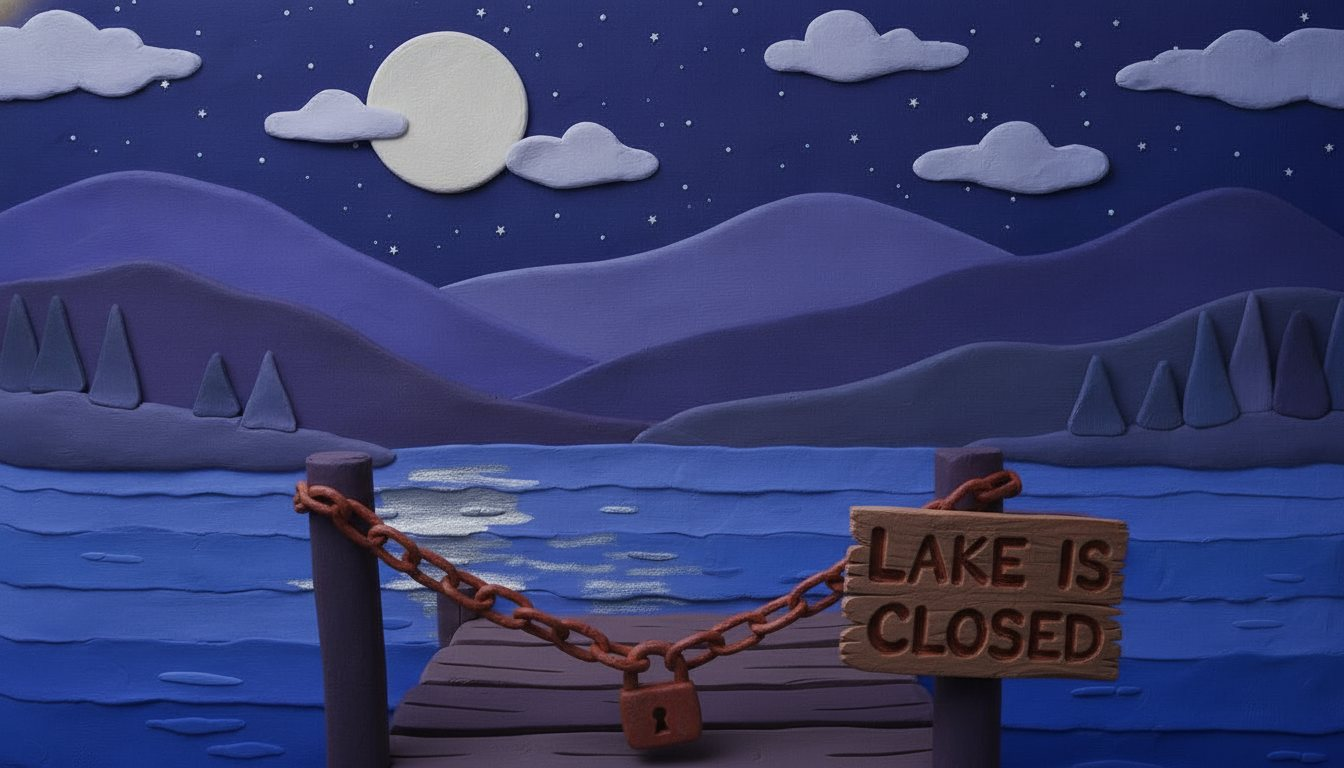
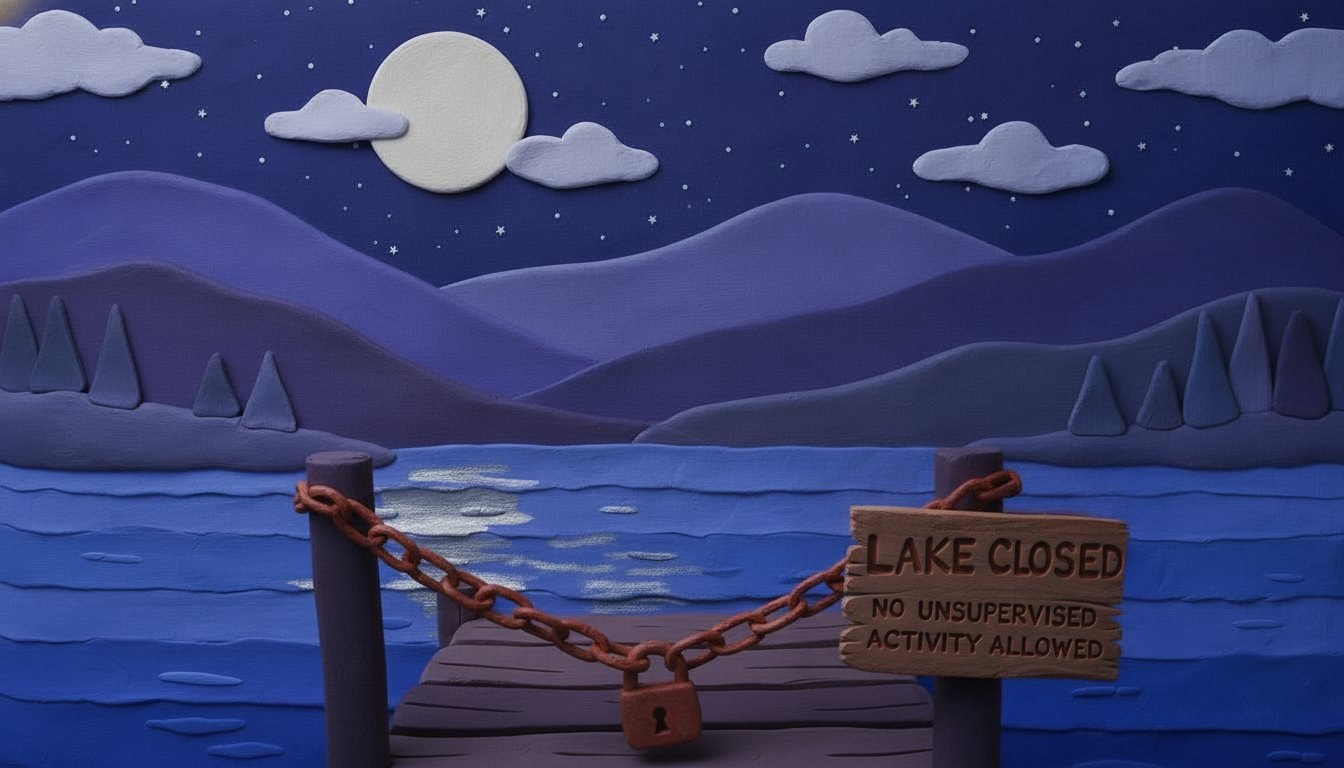
Dock: press up to the gap for a close view of the lake; new sign LAKE CLOSED / no unsupervised activity; channel 8 is a bug-zapper lantern infomercial
Claude-Session: https://claude.ai/code/session_017UCt1yh6wM11RSMuh2VTku

Changed region(s): [[0.625, 0.6875, 0.8438, 0.875]]

diff --git a/docs/index.html b/docs/index.html
@@ -67,6 +67,11 @@ button{font:inherit;color:inherit}
 #s-dock:not(.peeking) .peekbg{animation:peekdrift 16s ease-in-out infinite alternate}
 @keyframes peekdrift{0%{transform:scale(1.3) translate(5%,-12%)}35%{transform:scale(1.3) translate(-2%,-16%)}70%{transform:scale(1.3) translate(-10%,-13%)}100%{transform:scale(1.3) translate(-5%,-15%)}}
 .boards{position:absolute;inset:0;width:100%;height:100%;object-fit:cover;z-index:4;pointer-events:none;filter:brightness(.85)}
+.boards{transition:transform .9s cubic-bezier(.5,0,.2,1),filter .9s;transform-origin:51% 43%}
+#s-dock.close .boards{transform:scale(5.2);filter:brightness(.55) blur(1.5px)}
+#s-dock.close .peekbg{animation:none!important;transform:scale(1.04)!important;transition:transform .9s cubic-bezier(.5,0,.2,1)}
+#s-dock.close #signHot{left:73%!important;top:63%!important}
+#s-dock.close #peekBtn{top:88%!important}
 .hot{position:absolute;z-index:5;transform:translate(-50%,-50%);appearance:none;border:0;background:none;cursor:pointer;padding:0;display:grid;justify-items:center;gap:8px}
 .hot .ring{width:46px;height:46px;border-radius:50%;border:2px solid var(--glow,var(--candle));box-shadow:0 0 18px var(--glow,var(--candle)),inset 0 0 12px var(--glow,var(--candle));
   animation:pulse 2.2s ease-in-out infinite;position:relative}
@@ -319,13 +324,14 @@ button{font:inherit;color:inherit}
 
     <section class="scene" id="s-dock" data-crumb="The dock" data-back="inside">
       <div class="peekbg" id="peekbg">
-        <img class="bg" id="dockImg" src="img/dock-night.jpg" alt="Peeking through the boarded, hacked-up back door at the layered clay lake view from the dock: stacked mountains, puffy clay clouds, the dock chained shut with a padlock and a clay sign reading LAKE IS CLOSED" width="1344" height="768">
+        <img class="bg" id="dockImg" src="img/dock-night.jpg?v=6" alt="Peeking through the boarded, hacked-up back door at the layered clay lake view from the dock: stacked mountains, puffy clay clouds, the dock chained shut with a padlock and a clay sign reading LAKE CLOSED, NO UNSUPERVISED ACTIVITY ALLOWED" width="1344" height="768">
         <button class="secret" id="padlock" style="left:44%;top:82%;width:11%;height:16%;cursor:pointer" aria-label="The padlock"></button>
         <div class="fog"></div>
       </div>
       <img class="boards" src="img/boards.webp?v=6" alt="" aria-hidden="true">
       <div class="clock" id="dockClock" aria-live="polite"></div>
-      <button class="hot" style="left:74%;top:60%;--glow:#9fc6ff" data-card="dock" aria-label="Read the sign"><span class="ring"></span><span class="tag" id="dockTag">Read the sign</span></button>
+      <button class="hot" id="peekBtn" style="left:51%;top:44%;--glow:#e9c46a" aria-label="Press up to the gap in the boards"><span class="ring"></span><span class="tag" id="peekTag">Press up to the gap</span></button>
+      <button class="hot" id="signHot" style="left:74%;top:60%;--glow:#9fc6ff" data-card="dock" aria-label="Read the sign"><span class="ring"></span><span class="tag" id="dockTag">Read the sign</span></button>
     </section>
 
   </div>
@@ -540,10 +546,11 @@ button{font:inherit;color:inherit}
     $('qstart').addEventListener('click',function(){ streak=0; used={}; active=true; $('qintro').hidden=true; $('qplay').hidden=false; next() });
     paint();
   })();
+  $('peekBtn').addEventListener('click',function(e){ e.stopPropagation(); var sc=$('s-dock'), c=!sc.classList.contains('close'); sc.classList.toggle('close',c); $('peekTag').textContent=c?'Step back':'Press up to the gap'; $('peekBtn').setAttribute('aria-label',c?'Step back from the boards':'Press up to the gap in the boards'); });
   // ---- Peek through the boarded back door: the lake shifts behind the gaps as you move ----
   (function(){ var sc=$('s-dock'), pb=$('peekbg');
     sc.addEventListener('pointermove',function(e){ if(e.pointerType!=='mouse') return; var r=sc.getBoundingClientRect(), nx=(e.clientX-r.left)/r.width-.5, ny=(e.clientY-r.top)/r.height-.5;
-      sc.classList.add('peeking'); pb.style.transform='scale(1.3) translate('+(-4-nx*20).toFixed(2)+'%,'+(-14-ny*8).toFixed(2)+'%)' });
+      sc.classList.add('peeking'); if(sc.classList.contains('close')) return; pb.style.transform='scale(1.3) translate('+(-4-nx*20).toFixed(2)+'%,'+(-14-ny*8).toFixed(2)+'%)' });
     sc.addEventListener('pointerleave',function(){ sc.classList.remove('peeking'); pb.style.transform='' });
   })();
   function LAKE_OPEN_EARLY(){ return new Date()>=new Date(2027,0,2) }
@@ -628,6 +635,7 @@ button{font:inherit;color:inherit}
   function closeCard(){ if(openCard){openCard.classList.add('off');openCard=null} }
   function center(){ vp.scrollLeft=(vp.scrollWidth-vp.clientWidth)/2; $('hint').hidden=vp.scrollWidth<=vp.clientWidth+4 }
   function show(name, from){
+    if(name!=='dock'){ $('s-dock').classList.remove('close'); $('peekTag').textContent='Press up to the gap' }
     if(name==='altar') name='tv';
     if(SCENES.indexOf(name)<0) name='exterior';
     closeCard();
@@ -747,7 +755,7 @@ button{font:inherit;color:inherit}
       5:['ch/5.jpg','<b>Knee-Crusher 90</b> &middot; tone those thighs &middot; results guaranteed or your knees back'],
       6:['ch/6.jpg','<b>Roast-O-Rama 3000</b> &middot; don&rsquo;t ask what&rsquo;s on the spit &middot; call now'],
       7:['ch/7.jpg','<b>Madame Morte&rsquo;s Psychic Line</b> &middot; she already knows you&rsquo;ll call &middot; $3.99/min'],
-      8:['ch/8.jpg','<b>Gone-by-Morning</b> stain lifter &middot; wine, grass and&hellip; other stains'],
+      8:['ch/8.jpg','<b>Zap-a-Lantern</b> &middot; keeps the bugs away at the lake &middot; and whatever else is out there'],
       10:['ch/10.jpg','<b>Instant Mane</b> &middot; hair in a can &middot; mostly hair &middot; 1-800-555-0113'],
       11:['ch/11.jpg','<b>Lakeside Collector Plates</b> &middot; plate 1 of 13: the cabin &middot; limited edition']
     };
@@ -762,7 +770,7 @@ button{font:inherit;color:inherit}
       show(cv,true); noise();
       flash=setTimeout(function(){
         var c=CH[ch];
-        if(c){ $('chImg').src='img/'+c[0]+'?v=6'; show($('chImg'),true); $('chLower').innerHTML=c[1]; show($('chLower'),true) }
+        if(c){ $('chImg').src='img/'+c[0]+'?v=7'; show($('chImg'),true); $('chLower').innerHTML=c[1]; show($('chLower'),true) }
         else if(ch===3) show($('blue'),true);
         else if(ch===12) show($('bars'),true);
         else if(ch===13) show($('ch13'),true);
@@ -848,7 +856,7 @@ button{font:inherit;color:inherit}
     else if(now>=t.set-60 && now<t.set+30) ph='dusk';
     else ph='night';
     DOCK_PH=ph; if(cur==='dock') K.dock(ph);
-    var img=$('dockImg'), src='img/dock-'+ph+(LAKE_OPEN?'-open':'')+'.jpg';
+    var img=$('dockImg'), src='img/dock-'+ph+(LAKE_OPEN?'-open':'')+'.jpg?v=6';
     if(img.getAttribute('src')!==src) img.setAttribute('src',src);
     var after=now>=t.set, before=now<t.rise;
     $('dockClock').innerHTML=fmt(now)+'<small>'+(before?'Sunrise at '+fmt(t.rise):after?'Sun set at '+fmt(t.set):'Sunset at '+fmt(t.set))+'</small>';

diff --git a/site/world/index.html b/site/world/index.html
@@ -67,6 +67,11 @@ button{font:inherit;color:inherit}
 #s-dock:not(.peeking) .peekbg{animation:peekdrift 16s ease-in-out infinite alternate}
 @keyframes peekdrift{0%{transform:scale(1.3) translate(5%,-12%)}35%{transform:scale(1.3) translate(-2%,-16%)}70%{transform:scale(1.3) translate(-10%,-13%)}100%{transform:scale(1.3) translate(-5%,-15%)}}
 .boards{position:absolute;inset:0;width:100%;height:100%;object-fit:cover;z-index:4;pointer-events:none;filter:brightness(.85)}
+.boards{transition:transform .9s cubic-bezier(.5,0,.2,1),filter .9s;transform-origin:51% 43%}
+#s-dock.close .boards{transform:scale(5.2);filter:brightness(.55) blur(1.5px)}
+#s-dock.close .peekbg{animation:none!important;transform:scale(1.04)!important;transition:transform .9s cubic-bezier(.5,0,.2,1)}
+#s-dock.close #signHot{left:73%!important;top:63%!important}
+#s-dock.close #peekBtn{top:88%!important}
 .hot{position:absolute;z-index:5;transform:translate(-50%,-50%);appearance:none;border:0;background:none;cursor:pointer;padding:0;display:grid;justify-items:center;gap:8px}
 .hot .ring{width:46px;height:46px;border-radius:50%;border:2px solid var(--glow,var(--candle));box-shadow:0 0 18px var(--glow,var(--candle)),inset 0 0 12px var(--glow,var(--candle));
   animation:pulse 2.2s ease-in-out infinite;position:relative}
@@ -319,13 +324,14 @@ button{font:inherit;color:inherit}
 
     <section class="scene" id="s-dock" data-crumb="The dock" data-back="inside">
       <div class="peekbg" id="peekbg">
-        <img class="bg" id="dockImg" src="img/dock-night.jpg" alt="Peeking through the boarded, hacked-up back door at the layered clay lake view from the dock: stacked mountains, puffy clay clouds, the dock chained shut with a padlock and a clay sign reading LAKE IS CLOSED" width="1344" height="768">
+        <img class="bg" id="dockImg" src="img/dock-night.jpg?v=6" alt="Peeking through the boarded, hacked-up back door at the layered clay lake view from the dock: stacked mountains, puffy clay clouds, the dock chained shut with a padlock and a clay sign reading LAKE CLOSED, NO UNSUPERVISED ACTIVITY ALLOWED" width="1344" height="768">
         <button class="secret" id="padlock" style="left:44%;top:82%;width:11%;height:16%;cursor:pointer" aria-label="The padlock"></button>
         <div class="fog"></div>
       </div>
       <img class="boards" src="img/boards.webp?v=6" alt="" aria-hidden="true">
       <div class="clock" id="dockClock" aria-live="polite"></div>
-      <button class="hot" style="left:74%;top:60%;--glow:#9fc6ff" data-card="dock" aria-label="Read the sign"><span class="ring"></span><span class="tag" id="dockTag">Read the sign</span></button>
+      <button class="hot" id="peekBtn" style="left:51%;top:44%;--glow:#e9c46a" aria-label="Press up to the gap in the boards"><span class="ring"></span><span class="tag" id="peekTag">Press up to the gap</span></button>
+      <button class="hot" id="signHot" style="left:74%;top:60%;--glow:#9fc6ff" data-card="dock" aria-label="Read the sign"><span class="ring"></span><span class="tag" id="dockTag">Read the sign</span></button>
     </section>
 
   </div>
@@ -540,10 +546,11 @@ button{font:inherit;color:inherit}
     $('qstart').addEventListener('click',function(){ streak=0; used={}; active=true; $('qintro').hidden=true; $('qplay').hidden=false; next() });
     paint();
   })();
+  $('peekBtn').addEventListener('click',function(e){ e.stopPropagation(); var sc=$('s-dock'), c=!sc.classList.contains('close'); sc.classList.toggle('close',c); $('peekTag').textContent=c?'Step back':'Press up to the gap'; $('peekBtn').setAttribute('aria-label',c?'Step back from the boards':'Press up to the gap in the boards'); });
   // ---- Peek through the boarded back door: the lake shifts behind the gaps as you move ----
   (function(){ var sc=$('s-dock'), pb=$('peekbg');
     sc.addEventListener('pointermove',function(e){ if(e.pointerType!=='mouse') return; var r=sc.getBoundingClientRect(), nx=(e.clientX-r.left)/r.width-.5, ny=(e.clientY-r.top)/r.height-.5;
-      sc.classList.add('peeking'); pb.style.transform='scale(1.3) translate('+(-4-nx*20).toFixed(2)+'%,'+(-14-ny*8).toFixed(2)+'%)' });
+      sc.classList.add('peeking'); if(sc.classList.contains('close')) return; pb.style.transform='scale(1.3) translate('+(-4-nx*20).toFixed(2)+'%,'+(-14-ny*8).toFixed(2)+'%)' });
     sc.addEventListener('pointerleave',function(){ sc.classList.remove('peeking'); pb.style.transform='' });
   })();
   function LAKE_OPEN_EARLY(){ return new Date()>=new Date(2027,0,2) }
@@ -628,6 +635,7 @@ button{font:inherit;color:inherit}
   function closeCard(){ if(openCard){openCard.classList.add('off');openCard=null} }
   function center(){ vp.scrollLeft=(vp.scrollWidth-vp.clientWidth)/2; $('hint').hidden=vp.scrollWidth<=vp.clientWidth+4 }
   function show(name, from){
+    if(name!=='dock'){ $('s-dock').classList.remove('close'); $('peekTag').textContent='Press up to the gap' }
     if(name==='altar') name='tv';
     if(SCENES.indexOf(name)<0) name='exterior';
     closeCard();
@@ -747,7 +755,7 @@ button{font:inherit;color:inherit}
       5:['ch/5.jpg','<b>Knee-Crusher 90</b> &middot; tone those thighs &middot; results guaranteed or your knees back'],
       6:['ch/6.jpg','<b>Roast-O-Rama 3000</b> &middot; don&rsquo;t ask what&rsquo;s on the spit &middot; call now'],
       7:['ch/7.jpg','<b>Madame Morte&rsquo;s Psychic Line</b> &middot; she already knows you&rsquo;ll call &middot; $3.99/min'],
-      8:['ch/8.jpg','<b>Gone-by-Morning</b> stain lifter &middot; wine, grass and&hellip; other stains'],
+      8:['ch/8.jpg','<b>Zap-a-Lantern</b> &middot; keeps the bugs away at the lake &middot; and whatever else is out there'],
       10:['ch/10.jpg','<b>Instant Mane</b> &middot; hair in a can &middot; mostly hair &middot; 1-800-555-0113'],
       11:['ch/11.jpg','<b>Lakeside Collector Plates</b> &middot; plate 1 of 13: the cabin &middot; limited edition']
     };
@@ -762,7 +770,7 @@ button{font:inherit;color:inherit}
       show(cv,true); noise();
       flash=setTimeout(function(){
         var c=CH[ch];
-        if(c){ $('chImg').src='img/'+c[0]+'?v=6'; show($('chImg'),true); $('chLower').innerHTML=c[1]; show($('chLower'),true) }
+        if(c){ $('chImg').src='img/'+c[0]+'?v=7'; show($('chImg'),true); $('chLower').innerHTML=c[1]; show($('chLower'),true) }
         else if(ch===3) show($('blue'),true);
         else if(ch===12) show($('bars'),true);
         else if(ch===13) show($('ch13'),true);
@@ -848,7 +856,7 @@ button{font:inherit;color:inherit}
     else if(now>=t.set-60 && now<t.set+30) ph='dusk';
     else ph='night';
     DOCK_PH=ph; if(cur==='dock') K.dock(ph);
-    var img=$('dockImg'), src='img/dock-'+ph+(LAKE_OPEN?'-open':'')+'.jpg';
+    var img=$('dockImg'), src='img/dock-'+ph+(LAKE_OPEN?'-open':'')+'.jpg?v=6';
     if(img.getAttribute('src')!==src) img.setAttribute('src',src);
     var after=now>=t.set, before=now<t.rise;
     $('dockClock').innerHTML=fmt(now)+'<small>'+(before?'Sunrise at '+fmt(t.rise):after?'Sun set at '+fmt(t.set):'Sunset at '+fmt(t.set))+'</small>';

diff --git a/site/world/page.html b/site/world/page.html
@@ -62,6 +62,11 @@ button{font:inherit;color:inherit}
 #s-dock:not(.peeking) .peekbg{animation:peekdrift 16s ease-in-out infinite alternate}
 @keyframes peekdrift{0%{transform:scale(1.3) translate(5%,-12%)}35%{transform:scale(1.3) translate(-2%,-16%)}70%{transform:scale(1.3) translate(-10%,-13%)}100%{transform:scale(1.3) translate(-5%,-15%)}}
 .boards{position:absolute;inset:0;width:100%;height:100%;object-fit:cover;z-index:4;pointer-events:none;filter:brightness(.85)}
+.boards{transition:transform .9s cubic-bezier(.5,0,.2,1),filter .9s;transform-origin:51% 43%}
+#s-dock.close .boards{transform:scale(5.2);filter:brightness(.55) blur(1.5px)}
+#s-dock.close .peekbg{animation:none!important;transform:scale(1.04)!important;transition:transform .9s cubic-bezier(.5,0,.2,1)}
+#s-dock.close #signHot{left:73%!important;top:63%!important}
+#s-dock.close #peekBtn{top:88%!important}
 .hot{position:absolute;z-index:5;transform:translate(-50%,-50%);appearance:none;border:0;background:none;cursor:pointer;padding:0;display:grid;justify-items:center;gap:8px}
 .hot .ring{width:46px;height:46px;border-radius:50%;border:2px solid var(--glow,var(--candle));box-shadow:0 0 18px var(--glow,var(--candle)),inset 0 0 12px var(--glow,var(--candle));
   animation:pulse 2.2s ease-in-out infinite;position:relative}
@@ -314,13 +319,14 @@ button{font:inherit;color:inherit}
 
     <section class="scene" id="s-dock" data-crumb="The dock" data-back="inside">
       <div class="peekbg" id="peekbg">
-        <img class="bg" id="dockImg" src="img/dock-night.jpg" alt="Peeking through the boarded, hacked-up back door at the layered clay lake view from the dock: stacked mountains, puffy clay clouds, the dock chained shut with a padlock and a clay sign reading LAKE IS CLOSED" width="1344" height="768">
+        <img class="bg" id="dockImg" src="img/dock-night.jpg?v=6" alt="Peeking through the boarded, hacked-up back door at the layered clay lake view from the dock: stacked mountains, puffy clay clouds, the dock chained shut with a padlock and a clay sign reading LAKE CLOSED, NO UNSUPERVISED ACTIVITY ALLOWED" width="1344" height="768">
         <button class="secret" id="padlock" style="left:44%;top:82%;width:11%;height:16%;cursor:pointer" aria-label="The padlock"></button>
         <div class="fog"></div>
       </div>
       <img class="boards" src="img/boards.webp?v=6" alt="" aria-hidden="true">
       <div class="clock" id="dockClock" aria-live="polite"></div>
-      <button class="hot" style="left:74%;top:60%;--glow:#9fc6ff" data-card="dock" aria-label="Read the sign"><span class="ring"></span><span class="tag" id="dockTag">Read the sign</span></button>
+      <button class="hot" id="peekBtn" style="left:51%;top:44%;--glow:#e9c46a" aria-label="Press up to the gap in the boards"><span class="ring"></span><span class="tag" id="peekTag">Press up to the gap</span></button>
+      <button class="hot" id="signHot" style="left:74%;top:60%;--glow:#9fc6ff" data-card="dock" aria-label="Read the sign"><span class="ring"></span><span class="tag" id="dockTag">Read the sign</span></button>
     </section>
 
   </div>
@@ -535,10 +541,11 @@ button{font:inherit;color:inherit}
     $('qstart').addEventListener('click',function(){ streak=0; used={}; active=true; $('qintro').hidden=true; $('qplay').hidden=false; next() });
     paint();
   })();
+  $('peekBtn').addEventListener('click',function(e){ e.stopPropagation(); var sc=$('s-dock'), c=!sc.classList.contains('close'); sc.classList.toggle('close',c); $('peekTag').textContent=c?'Step back':'Press up to the gap'; $('peekBtn').setAttribute('aria-label',c?'Step back from the boards':'Press up to the gap in the boards'); });
   // ---- Peek through the boarded back door: the lake shifts behind the gaps as you move ----
   (function(){ var sc=$('s-dock'), pb=$('peekbg');
     sc.addEventListener('pointermove',function(e){ if(e.pointerType!=='mouse') return; var r=sc.getBoundingClientRect(), nx=(e.clientX-r.left)/r.width-.5, ny=(e.clientY-r.top)/r.height-.5;
-      sc.classList.add('peeking'); pb.style.transform='scale(1.3) translate('+(-4-nx*20).toFixed(2)+'%,'+(-14-ny*8).toFixed(2)+'%)' });
+      sc.classList.add('peeking'); if(sc.classList.contains('close')) return; pb.style.transform='scale(1.3) translate('+(-4-nx*20).toFixed(2)+'%,'+(-14-ny*8).toFixed(2)+'%)' });
     sc.addEventListener('pointerleave',function(){ sc.classList.remove('peeking'); pb.style.transform='' });
   })();
   function LAKE_OPEN_EARLY(){ return new Date()>=new Date(2027,0,2) }
@@ -623,6 +630,7 @@ button{font:inherit;color:inherit}
   function closeCard(){ if(openCard){openCard.classList.add('off');openCard=null} }
   function center(){ vp.scrollLeft=(vp.scrollWidth-vp.clientWidth)/2; $('hint').hidden=vp.scrollWidth<=vp.clientWidth+4 }
   function show(name, from){
+    if(name!=='dock'){ $('s-dock').classList.remove('close'); $('peekTag').textContent='Press up to the gap' }
     if(name==='altar') name='tv';
     if(SCENES.indexOf(name)<0) name='exterior';
     closeCard();
@@ -742,7 +750,7 @@ button{font:inherit;color:inherit}
       5:['ch/5.jpg','<b>Knee-Crusher 90</b> &middot; tone those thighs &middot; results guaranteed or your knees back'],
       6:['ch/6.jpg','<b>Roast-O-Rama 3000</b> &middot; don&rsquo;t ask what&rsquo;s on the spit &middot; call now'],
       7:['ch/7.jpg','<b>Madame Morte&rsquo;s Psychic Line</b> &middot; she already knows you&rsquo;ll call &middot; $3.99/min'],
-      8:['ch/8.jpg','<b>Gone-by-Morning</b> stain lifter &middot; wine, grass and&hellip; other stains'],
+      8:['ch/8.jpg','<b>Zap-a-Lantern</b> &middot; keeps the bugs away at the lake &middot; and whatever else is out there'],
       10:['ch/10.jpg','<b>Instant Mane</b> &middot; hair in a can &middot; mostly hair &middot; 1-800-555-0113'],
       11:['ch/11.jpg','<b>Lakeside Collector Plates</b> &middot; plate 1 of 13: the cabin &middot; limited edition']
     };
@@ -757,7 +765,7 @@ button{font:inherit;color:inherit}
       show(cv,true); noise();
       flash=setTimeout(function(){
         var c=CH[ch];
-        if(c){ $('chImg').src='img/'+c[0]+'?v=6'; show($('chImg'),true); $('chLower').innerHTML=c[1]; show($('chLower'),true) }
+        if(c){ $('chImg').src='img/'+c[0]+'?v=7'; show($('chImg'),true); $('chLower').innerHTML=c[1]; show($('chLower'),true) }
         else if(ch===3) show($('blue'),true);
         else if(ch===12) show($('bars'),true);
         else if(ch===13) show($('ch13'),true);
@@ -843,7 +851,7 @@ button{font:inherit;color:inherit}
     else if(now>=t.set-60 && now<t.set+30) ph='dusk';
     else ph='night';
     DOCK_PH=ph; if(cur==='dock') K.dock(ph);
-    var img=$('dockImg'), src='img/dock-'+ph+(LAKE_OPEN?'-open':'')+'.jpg';
+    var img=$('dockImg'), src='img/dock-'+ph+(LAKE_OPEN?'-open':'')+'.jpg?v=6';
     if(img.getAttribute('src')!==src) img.setAttribute('src',src);
     var after=now>=t.set, before=now<t.rise;
     $('dockClock').innerHTML=fmt(now)+'<small>'+(before?'Sunrise at '+fmt(t.rise):after?'Sun set at '+fmt(t.set):'Sunset at '+fmt(t.set))+'</small>';
